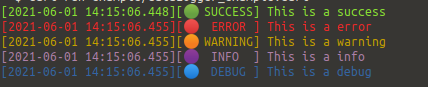
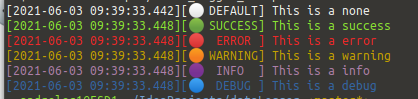
Add default with output and some fix for more pubpoints

diff --git a/lib/src/enum/status_enum.dart b/lib/src/enum/status_enum.dart
@@ -1,6 +1,8 @@
 import 'package:ansicolor/ansicolor.dart';
 
+/// Enum of Status
 enum LogStatus {
+  none,
   success,
   error,
   warning,
@@ -8,10 +10,12 @@ enum LogStatus {
   debug,
 }
 
+/// Static class helper for the enum
 class LogStatusHelper {
+  /// get the AnsiPen With the right color from the LogStatus
   static AnsiPen getColorPen(LogStatus status) {
-    var color = 16;
-    switch(status) {
+    var color = 15;
+    switch (status) {
       case LogStatus.success:
         color = 10;
         break;
@@ -27,16 +31,19 @@ class LogStatusHelper {
       case LogStatus.debug:
         color = 4;
         break;
+      case LogStatus.none:
+        color = 15;
+        break;
     }
 
     return AnsiPen()
-        ..reset()
-        ..xterm(color)
-      ;
+      ..reset()
+      ..xterm(color);
   }
 
+  /// Get the emoji from the LogStatus
   static String getEmoji(LogStatus status) {
-    switch(status) {
+    switch (status) {
       case LogStatus.success:
         return '🟢';
       case LogStatus.error:
@@ -47,16 +54,20 @@ class LogStatusHelper {
         return '🟣';
       case LogStatus.debug:
         return '🔵';
-      default :
-        return '❓';
+      case LogStatus.none:
+      default:
+        return '⚪';
     }
   }
 
-  static String getStatusString(LogStatus status, {upperFirst = false, upperCase = false, fixedSize = true}) {
+  /// Apply some transformation on the string for better look
+  static String getStatusString(LogStatus status,
+      {upperFirst = false, upperCase = false, fixedSize = true}) {
     var statusString = _getStatusString(status, fixedSize: fixedSize);
 
     if (upperFirst) {
-      statusString = '${statusString[0].toUpperCase()}${statusString.substring(1)}';
+      statusString =
+          '${statusString[0].toUpperCase()}${statusString.substring(1)}';
     }
 
     if (upperCase) {
@@ -66,21 +77,55 @@ class LogStatusHelper {
     return statusString;
   }
 
-  static String _getStatusString(LogStatus status, { fixedSize = false }) {
-    switch(status) {
+  /// Return string terms with space for better look at output
+  static String _getStatusString(LogStatus status, {fixedSize = false}) {
+    var stringValue = '???';
+    switch (status) {
       case LogStatus.success:
-        return 'success';
-      case LogStatus.error:
-        return fixedSize ? ' error ' : 'error';
-      case LogStatus.warning:
-        return 'warning';
-      case LogStatus.info:
-        return fixedSize ? ' info  ' : 'info';
-      case LogStatus.debug:
-        return fixedSize ? ' debug ' : 'debug';
+        stringValue = 'success';
         break;
-      default :
-        return fixedSize ? '  ???  ' : '???';
+      case LogStatus.error:
+        stringValue = 'error';
+        break;
+      case LogStatus.warning:
+        stringValue = 'warning';
+        break;
+      case LogStatus.info:
+        stringValue = 'info';
+        break;
+      case LogStatus.debug:
+        stringValue = 'debug';
+        break;
+      case LogStatus.none:
+        stringValue = 'default';
+        break;
+      default:
+        stringValue = '???';
+        break;
     }
+
+    return fixedSize ? _centerPad(stringValue) : stringValue;
+  }
+
+  /// Automatic center pad string
+  static String _centerPad(String status, {wantedLength = 7}) {
+    // if status length is bigger thant the wanted size, just return.
+    if (status.length >= wantedLength) {
+      return status;
+    }
+
+    var currentLength = status.length;
+    int leftPad = ((wantedLength - currentLength) / 2).ceil();
+    int rightPad = (wantedLength - currentLength - leftPad).ceil();
+
+    for (var i = 0; i < leftPad; i++) {
+      status = ' $status';
+    }
+
+    for (var i = 0; i < rightPad; i++) {
+      status = '$status ';
+    }
+
+    return status;
   }
 }

diff --git a/test/color_logger_test.dart b/test/color_logger_test.dart
@@ -4,8 +4,14 @@ import 'package:test/test.dart';
 void main() {
   group('FixedLength', () {
     var size = 7;
+    test('None/Default', () {
+      var s = LogStatusHelper.getStatusString(LogStatus.none, fixedSize: true);
+      expect(s.length, size);
+    });
+
     test('Success', () {
-      var s = LogStatusHelper.getStatusString(LogStatus.success, fixedSize: true);
+      var s =
+          LogStatusHelper.getStatusString(LogStatus.success, fixedSize: true);
       expect(s.length, size);
     });
 
@@ -15,17 +21,20 @@ void main() {
     });
 
     test('Warning', () {
-      var s = LogStatusHelper.getStatusString(LogStatus.success, fixedSize: true);
+      var s =
+          LogStatusHelper.getStatusString(LogStatus.success, fixedSize: true);
       expect(s.length, size);
     });
 
     test('Info', () {
-      var s = LogStatusHelper.getStatusString(LogStatus.success, fixedSize: true);
+      var s =
+          LogStatusHelper.getStatusString(LogStatus.success, fixedSize: true);
       expect(s.length, size);
     });
 
     test('Debug', () {
-      var s = LogStatusHelper.getStatusString(LogStatus.success, fixedSize: true);
+      var s =
+          LogStatusHelper.getStatusString(LogStatus.success, fixedSize: true);
       expect(s.length, size);
     });
   });

diff --git a/lib/src/color_logger_base.dart b/lib/src/color_logger_base.dart
@@ -1,7 +1,8 @@
 import 'package:color_logger/src/enum/status_enum.dart';
 
 class ColorLogger {
-  void log(String text, { LogStatus status = LogStatus.success }) {
+  /// Output log timestamped with color and emoji
+  void log(String text, {LogStatus status = LogStatus.none}) {
     var timestamping = _getTimestamping();
     var emoji = LogStatusHelper.getEmoji(status);
     var statusString = LogStatusHelper.getStatusString(status, upperCase: true);
@@ -9,16 +10,19 @@ class ColorLogger {
     print(pen('[$timestamping][$emoji $statusString] $text'));
   }
 
+  /// Add leading zero for making string with 2 digits everytime.
   String _to2digit(int base) {
     var baseString = '0$base';
     return baseString.substring(baseString.length - 2);
   }
 
+  /// Add leading zero for making string with 3 digits everytime.
   String _to3digit(int base) {
     var baseString = '00$base';
     return baseString.substring(baseString.length - 3);
   }
 
+  /// Generate a string with datetime.
   String _getTimestamping() {
     var now = DateTime.now();
     var y = now.year.toString();

diff --git a/example/color_logger_example.dart b/example/color_logger_example.dart
@@ -2,9 +2,10 @@ import 'package:color_logger/color_logger.dart';
 
 void main() {
   var console = ColorLogger();
-  console.log('This is a success');
-  console.log('This is a error',  status: LogStatus.error);
-  console.log('This is a warning',  status: LogStatus.warning);
-  console.log('This is a info',  status: LogStatus.info);
-  console.log('This is a debug',  status: LogStatus.debug);
+  console.log('This is a none');
+  console.log('This is a success', status: LogStatus.success);
+  console.log('This is a error', status: LogStatus.error);
+  console.log('This is a warning', status: LogStatus.warning);
+  console.log('This is a info', status: LogStatus.info);
+  console.log('This is a debug', status: LogStatus.debug);
 }

diff --git a/README.md b/README.md
@@ -5,15 +5,15 @@
 ## Usage
 A simple usage example:
 ```dart
-import 'package:dataLogger/color_logger.dart';
+import 'package:color_logger/color_logger.dart';
 
 void main() {
   var console = ColorLogger();
-  console.log('This is a success');
+  console.log('This is a none');
+  console.log('This is a success', status: LogStatus.success);
   console.log('This is a error',  status: LogStatus.error);
   console.log('This is a warning',  status: LogStatus.warning);
   console.log('This is a info',  status: LogStatus.info);
   console.log('This is a debug',  status: LogStatus.debug);
 }
-
 ```

diff --git a/CHANGELOG.md b/CHANGELOG.md
@@ -5,3 +5,9 @@
 ### 1.0.1
 
 - Readme Edit
+
+### 1.0.2
+
+- Add 'none' value for white output
+- Set 'none' as default value
+- Add comment everywhere for more pub points 
